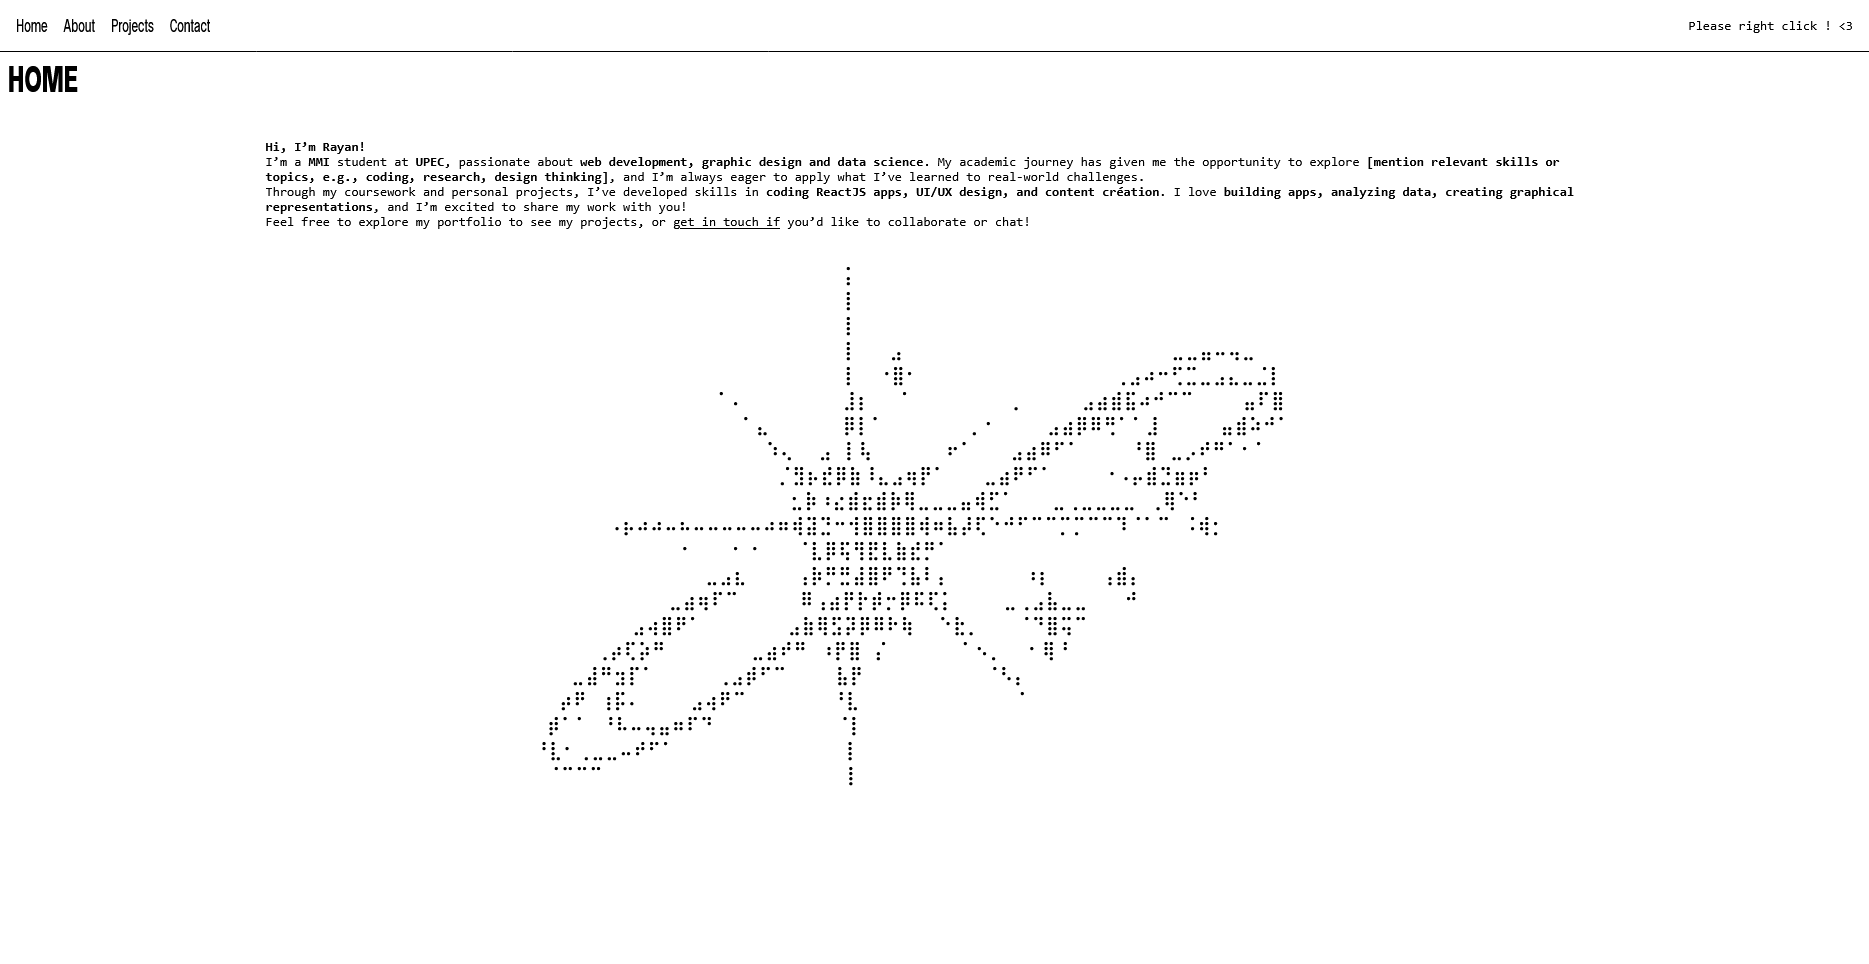
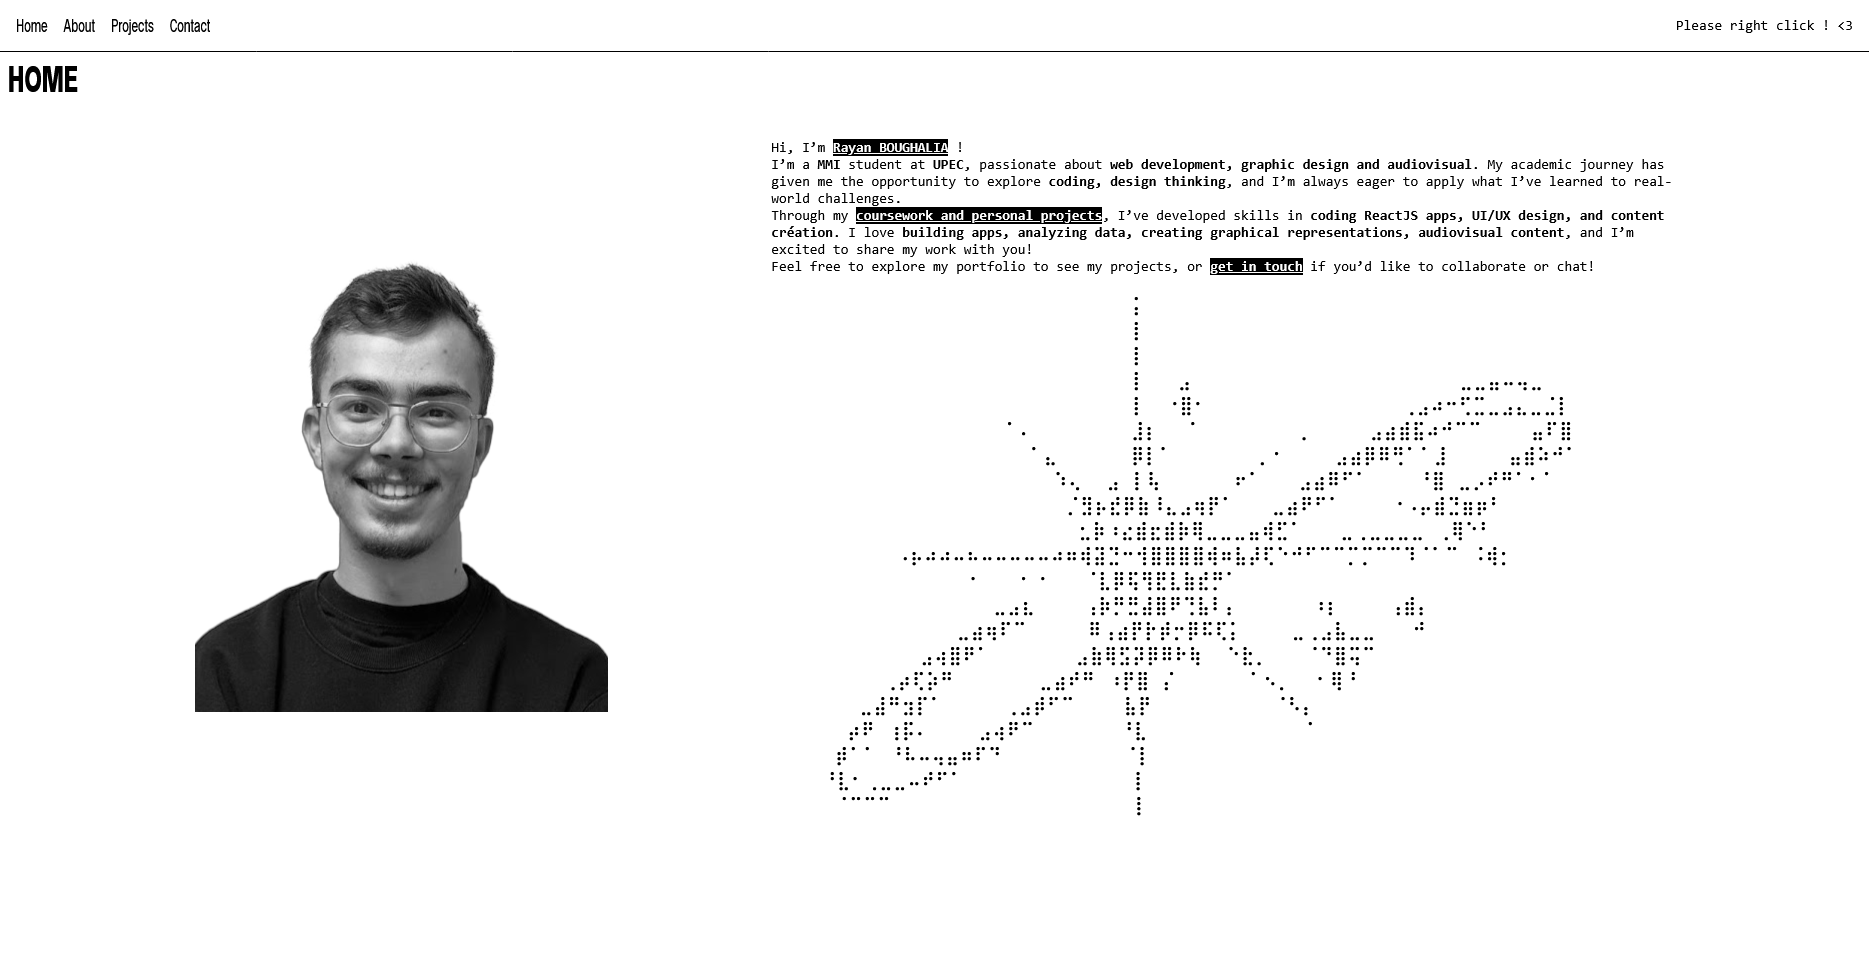
added link to form

diff --git a/index.html b/index.html
@@ -111,7 +111,9 @@
                         <!-- <img src="https://picsum.photos/600/400?random=1" alt="Project 1"> -->
                         <img src="./assets/portfolio.png" alt="Project 1">
                         <h3>Brutalist Portfolio</h3>
-                        <p>Description of Project 1.</p>
+                        <p>This is a brutalist-inspired portfolio website, designed to showcase my work in a raw and
+                            unapologetic way. The website is built using HTML, CSS, and JavaScript, and features a
+                            custom context menu, expanding sections, and a simple carousel to showcase projects.</p>
                     </div>
                     <div class="project">
                         <img src="https://picsum.photos/600/400?random=2" alt="Project 2">
@@ -132,9 +134,26 @@
             <h1>CONTACT</h1>
             <h2 id="contact-title">Contact me</h2>
             <div id="contact-container">
-                <!-- <div id="contact-information">
-                    <p>rayan.boughalia.pro@gmail.com</p>
-                </div> -->
+                <div id="contact-information">
+                    <div>
+                        <strong>Email:</strong>
+                        <a href="mailto:rayan.boughalia.pro@gmail.com" target="_blank">rayan.boughalia.pro@gmail.com</a>
+                    </div>
+                    <div>
+                        <strong>Linkedin:</strong>
+                        <a href="https://www.linkedin.com/in/rayan-boughalia/"
+                            target="_blank">https://www.linkedin.com/in/rayan-boughalia/</a>
+                    </div>
+                    <div>
+                        <strong>Github:</strong>
+                        <a href="https://github.com/Ryn-Bghl" target="_blank">https://github.com/Ryn-Bghl</a>
+                    </div>
+                    <div>
+                        <strong>LeetCode:</strong>
+                        <a href="https://leetcode.com/u/Duck_Noris/"
+                            target="_blank">https://leetcode.com/u/Duck_Noris/</a>
+                    </div>
+                </div>
                 <div id="contact-form">
                     <!-- Form action API Endpoint  -->
                     <form action="https://api.web3forms.com/submit" method="POST" id="form">

diff --git a/css/style.css b/css/style.css
@@ -254,14 +254,28 @@ main #contact h1:first-child {
 #contact-information {
     font-family: var(--ff-body);
     font-size: var(--fz-body);
-    text-align: center;
+    text-align: left;
+    display: flex;
+    flex-direction: column;
+    gap: 1rem;
     margin-bottom: 2rem;
+}
+
+#contact-information a {
+    margin: 0;
+    text-align: left;
+    color: var(--fg-black);
+    text-decoration: none;
+
+    &:hover {
+        text-decoration: underline;
+    }
 }
 
 #contact-container {
     display: grid;
-    /* grid-template-columns: repeat(auto-fit, minmax(250px, 40%)); */
-    grid-template-columns: 40dvw;
+    grid-template-columns: repeat(auto-fit, minmax(250px, 40%));
+    /* grid-template-columns: 40dvw; */
     justify-content: space-evenly;
     align-items: start;
     padding: 2rem 1rem;
@@ -330,11 +344,21 @@ main #contact h1:first-child {
 }
 
 .project h3 {
+    margin-top: 1rem;
+    margin-bottom: 10px;
+    text-align: center;
+}
+
+.project p {
     margin-top: 10px;
     margin-bottom: 10px;
+    text-align: justify;
+    width: 75%;
+    margin: auto;
 }
 
 .project img {
+    text-align: center;
     width: 75%;
     height: auto;
     position: relative;
@@ -404,4 +428,17 @@ footer {
     #contact-container {
         grid-template-columns: 100%;
     }
+
+    .carousel-container {
+        width: 100%;
+    }
+
+    .project p {
+        width: 100%;
+    }
+
+    .project img {
+        width: 100%;
+    }
+
 }
